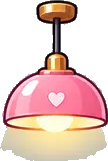
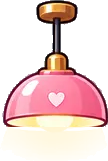
Make the lamp cast light instead of a box
The lamp's glow was painted over the sheet's grey backdrop, so cutting it out
left an opaque grey-yellow block hanging under the shade. The cutting script
now reads that block back as light: how much brighter than the backdrop a pixel
is becomes how opaque it is, over a warm white. Under the shade there is also a
soft pool on the wall now, which is what the glow was trying to be.

Changed region(s): [[0.0, 0.7764, 1.0, 1.0]]

diff --git a/src/components/art/KitchenRoom.tsx b/src/components/art/KitchenRoom.tsx
@@ -1,5 +1,6 @@
 import { memo } from 'react';
 import { Image, ImageSourcePropType, StyleSheet, View } from 'react-native';
+import Svg, { Defs, Ellipse, RadialGradient, Stop } from 'react-native-svg';
 
 import {
   ART,
@@ -66,6 +67,22 @@ interface KitchenRoomProps {
   cupH: number;
   /** Room either side of the dispensers for the plant and the poster. */
   sideRoom: number;
+}
+
+/** The warm pool a pendant throws on the wall under it. */
+function Lamplight({ x, y, r }: { x: number; y: number; r: number }) {
+  return (
+    <Svg style={{ position: 'absolute', left: x - r, top: y - r, width: r * 2, height: r * 2 }} pointerEvents="none">
+      <Defs>
+        <RadialGradient id={`lamp-${Math.round(x)}`} cx="50%" cy="50%" r="50%">
+          <Stop offset="0" stopColor="#FFDB78" stopOpacity={0.62} />
+          <Stop offset="0.45" stopColor="#FFE49C" stopOpacity={0.3} />
+          <Stop offset="1" stopColor="#FFEFC2" stopOpacity={0} />
+        </RadialGradient>
+      </Defs>
+      <Ellipse cx={r} cy={r} rx={r} ry={r} fill={`url(#lamp-${Math.round(x)})`} />
+    </Svg>
+  );
 }
 
 /** One sprite, placed by its width with its own aspect kept. */
@@ -136,8 +153,12 @@ export const KitchenRoom = memo(function KitchenRoom({
       )}
 
       {/* ---- pendant lamps, hanging from the ceiling in both corners */}
-      <Image source={LAMP} style={{ position: 'absolute', left: W * 0.025, top: 0, width: lampW, height: lampW / ART.lamp }} />
-      <Image source={LAMP} style={{ position: 'absolute', right: W * 0.025, top: 0, width: lampW, height: lampW / ART.lamp }} />
+      {[Math.round(W * 0.025), Math.round(W * 0.975 - lampW)].map((x) => (
+        <View key={x}>
+          <Lamplight x={x + lampW / 2} y={(lampW / ART.lamp) * 0.8} r={lampW * 1.15} />
+          <Image source={LAMP} style={{ position: 'absolute', left: x, top: 0, width: lampW, height: lampW / ART.lamp }} />
+        </View>
+      ))}
 
       {shelves.map((shelf, i) =>
         shelf.steel ? (

diff --git a/tools/cut-sheets.py b/tools/cut-sheets.py
@@ -110,6 +110,25 @@ def blank_card(card):
     card.save(OUT / 'card-blank.png')
 
 
+def soften_glow(lamp):
+    """The lamp's light was painted over the sheet's grey, so it cut out as an opaque box.
+    Below the shade, how much brighter than that grey a pixel is becomes how opaque it is."""
+    px = lamp.load()
+    W, H = lamp.size
+    luma = lambda c: 0.299 * c[0] + 0.587 * c[1] + 0.114 * c[2]
+    pink = [y for y in range(H) for x in range(W) if px[x, y][3] > 100 and px[x, y][2] > px[x, y][1] + 10 and px[x, y][0] > 180]
+    rim = max(pink) if pink else int(H * 0.72)
+    grey = 183.0
+    for y in range(rim + 1, H):
+        for x in range(W):
+            c = px[x, y]
+            if not c[3]:
+                continue
+            a = (luma(c) - grey) / (255 - grey)
+            px[x, y] = (255, 243, 203, max(0, min(255, int(a * 235))))
+    return lamp
+
+
 def main():
     OUT.mkdir(parents=True, exist_ok=True)
 
@@ -139,7 +158,8 @@ def main():
     # the wall tiles at the sprite's own size, so it is cut down to the brick size we want
     wall = kit.crop((14, 24, 190, 169))
     wall.resize((96, 79), Image.LANCZOS).save(OUT / 'wall.png')
-    cut(kit, (324, 7, 432, 168), 'lamp.png')
+    lamp = kit.crop((324, 7, 432, 168))
+    soften_glow(lamp).crop(lamp.getbbox()).save(OUT / 'lamp.png')
     cut(kit, (440, 37, 634, 92), 'shelf.png')
     cut(kit, (9, 187, 220, 291), 'counter-steel.png')
     cut(kit, (385, 180, 631, 292), 'cabinet.png')
